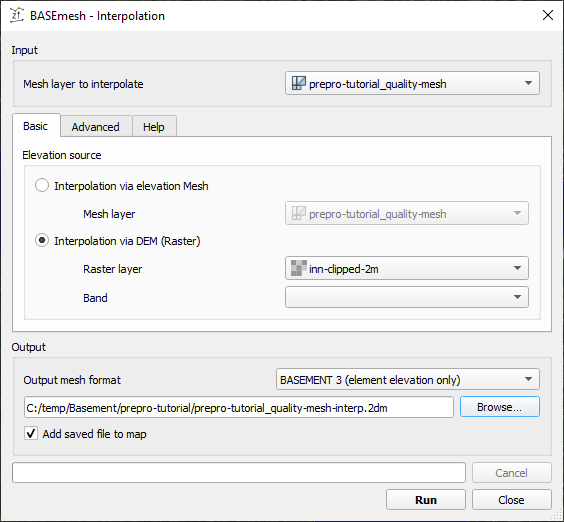
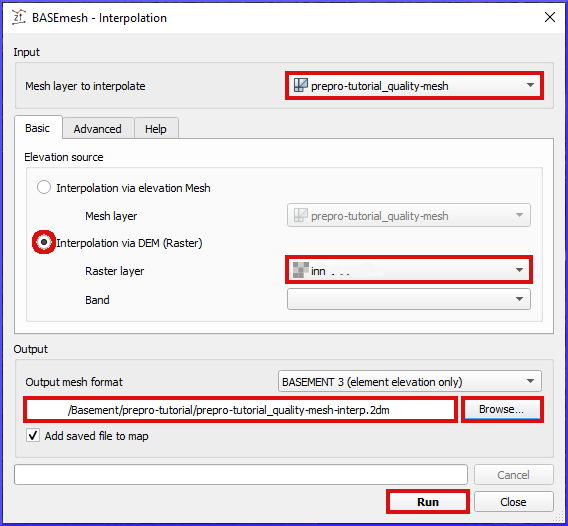
started restructuring with bm3

diff --git a/numerics/pre-qgis.md b/numerics/pre-qgis.md
@@ -9,10 +9,20 @@ Before diving into this tutorial make sure to...
 2. Read and understand (or watch) this eBook's {ref}`qgis-tutorial`.
 ```
 
-## Essentials: Digital Elevation Models (DEMs)
+(get-dem)=
+## Digital Elevation Models (DEMs)
 To start any analysis of rivers and fluvial landscapes, a digital elevation model (**DEM**) is required. Nowadays, DEMs often stem from light imaging, detection, and ranging ([LiDAR](https://en.wikipedia.org/wiki/Lidar) combined with bathymetric surveys. Older approaches rely on manual surveying (e.g. with a total station) of cross sections between which the terrain is interpolated. The newer LiDAR employs lights sources and provides terrain assessments up to 2-m deep water. Bathymetric [echo sounding](https://en.wikipedia.org/wiki/Echo_sounding) is necessary to map the ground of deeper waters. Thus, merged LiDAR and echo-sounding datasets produces seamless point clouds of river ecosystems, which may be stored in many different file types.
 
 The first step in modelling a river consist in the conversion of a DEM into a computational mesh. This section guides through the conversion of a DEM into a computational mesh with *QGIS* and the *BASEmesh* plugin. The descriptions refer to the developer's documentation files ([go to the ETH Zurich's *BASEMENT* documentation](https://basement.ethz.ch/download/documentation/docu3.html)). At the end of this tutorial, we will have generated a computational grid in {term}`SMS 2dm` format that is compatible with the {ref}`chpt-basement` and {ref}`chpt-telemac2d` numerical models presented in the next chapters of this eBook.
+
+
+This tutorial uses an application-ready DEM in GeoTIFF {ref}`raster` format. The DEM raster will provide height (Z) information for the computational grids created in the next sections. Therefore, download the example DEM GeoTIFF [here](https://github.com/hydro-informatics/materials-bm/raw/main/rasters/inn-dem.tif) and add it as a new raster layer in *QGIS* (similar to adding {ref}`basemap`).
+
+```{admonition} From LiDAR point clouds to a Raster DEM
+:class: tip
+Terrain survey data are mostly delivered in the shape of an x-y-z point dataset. LiDAR produces massive point clouds, which quickly overcharge even powerful computers. Therefore, LiDAR data may need to be break down to smaller zones of less than approximately 106 points and special LiDAR point processing software (e.g., http://lastools.org/) may be helpful in this task. The range of possible data products and shape from terrain survey is board and this tutorial exemplary uses a set of x-y-z points stored within a text file.
+```
+
 
 ```{admonition} OpenFOAM modelers...
 For three-dimensional (3d) modeling with OpenFOAM, the creation of a 2dm file is not necessary. OpenFOAM users can export the terrain in QGIS directly as an `stl` file, as described at the bottom of this section (jump to the {ref}`dem2stl` paragraph).
@@ -69,60 +79,19 @@ Save the QGIS project (**Project** > **Save As...**), for example, under the nam
 ```
 
 (epd)=
-## Elevation Point Data
-Terrain survey data are mostly delivered in the shape of an x-y-z point dataset. LiDAR produces massive point clouds, which quickly overcharge even powerful computers. Therefore, LiDAR data may need to be break down to smaller zones of less than approximately 106 points and special LiDAR point processing software (e.g., http://lastools.org/) may be helpful in this task. The range of possible data products and shape from terrain survey is board and this tutorial exemplary uses a set of x-y-z points stored within a text file. Load the points from the provided xyz-points.txt file as follows:
+## Data
+
 
 1. [Download](https://github.com/hydro-informatics/materials-bm/blob/main/points_raw/points.txt) the point file for this tutorial (if necessary, copy the file contents locally into a text editor and save the file as **points.txt** in a local project directory)
 1. [Download](https://github.com/hydro-informatics/materials-bm/raw/main/breaklines.zip) the zipped breaklines shapefile into the project folder and unpack **breaklines.shp**.
-1. In *QGIS*, click on the **Layer** menu > **Add Layer** > **Add Delimited Text Layer...** (see {numref}`Fig. %s <qgis-add-lyr>`)
-1. In the **Add Delimited Text Layer** (**Data Source Manager | Delimited Text**) wizard (see details in {numref}`Fig. %s <qgis-import-pts>`):
-    * Choose [points.txt](https://github.com/hydro-informatics/materials-bm/blob/main/points_raw/points.txt) in the **File name** field (alternatively use [points.csv](https://github.com/hydro-informatics/materials-bm/blob/main/points_raw/points.csv)
-    * Name the new layer (e.g., points)
-    * In the **File Format** canvas, select **Custom Delimiters** and activate the **Space** checkbox
-    * In the **Record and Field Options** canvas, activate the **First record has field names** checkbox
-    * In the **Geometry Definition** canvas, define the **Point Coordinates** as **X Field** = **X**, **Y Field** = **Y** and **Z Field** = **Z**; set the **Geometry CRS** to the **Project CRS**.
-    * Click the **Add** button on the bottom of the wizard window. The points should now be plotted in the main *QGIS* window.
 
 
-```{figure} ../img/qgis-add-lyr.png
-:alt: basement qhis add layer
-:name: qgis-add-lyr
-
-Open the **Add Delimited Text Layer** import wizard.
-```
-
-```{figure} ../img/qgis-import-pts.png
-:alt: basement qgis import points
-:name: qgis-import-pts
-
-Load the xyz-points.txt file with QGIS' Add Delimited Text Layer (Data Source Manager | Delimited Text) wizard.
-```
-
-Next, export the new point layer as shapefile: In *QGIS*' **Layer**s window, right-click on XYZ-POINTS, then **Export** > **Save Features As...** . In the Format field, select **ESRI Shapefile**. Define a FILE NAME (by clicking on the … button and defining for example *C:\QGIS-projects\xyz-points.shp*), ensure that the ADD SAVED FILE TO MAP checkbox is activated (on the bottom of the **Save Vector Layer As...** window) and click **OK**. Remove the **points** text layer from the **Layers** window (only the shape file should be visible here now).
-Finally, rename the three fields (**FIELD_1**, **FIELD_2**, **FIELD_3**) to **X**, **Y**, and **Z**, respectively. The fields can be renamed with a double-click on the **xyz-points** layer (opens **Layer Properties**), then left-click on the **Fields** ribbon, activate the editing mode (click on the pen symbol) and edit the **Name** fields.
 
 (boundary)=
 ## Model Boundary
 
 The model boundary defines the calculation extent and needs to be define within a polygon shapefile that encloses all points in the above produced point shapefile. *QGIS* provides a Convex Hull tool that enables the automated creation of the outer boundary. This tool is used as follows:
 
-- In *QGIS*' **Processing** menu, select **Toolbox** (see {numref}`Fig. %s <qgis-tbx-fig>`) The **Toolbox** sub-window opens now.
-- In the toolbox, click on **Vector Geometry** > **Concave Hull (Alpha Shapes)**, which opens the **Concave Hull (Alpha Shapes)** wizard (see {numref}`Fig. %s <qgis-chull>`).
-- In the **Concave Hull (Alpha Shapes)** wizard, select the **xyz-points** layer as **Input Layer**, set the **Threshold** to 0.300 (keep default), define an output **Concave Hull** shapefile (e.g., **boundary.shp**) by clicking on the **...** button, and click on **Run**.
-
-```{figure} ../img/qgis-tbx.png
-:alt: qgis basement toolbox
-:name: qgis-tbx-fig
-
-Open QGIS' Toolbox from the main menu.
-```
-
-```{figure} ../img/qgis-chull.png
-:alt: basement qgis convex hull boundary polygon
-:name: qgis-chull
-
-The Concave Hull (Alpha Shapes) wizard.
-```
 
 
 - Right-click on *QGIS*' **Settings** menu, and activate the **Snapping** toolbar checkbox. In the now shown snapping toolbar, activate snapping with a click on the horseshoe icon.
@@ -145,7 +114,7 @@ Toggle editing and enable the Vertex Tool.
 :alt: basement qgis modify boundary polygon
 :name: qgis-mod-boundary
 
-Modify the boundary polygon with a click on the centre cross (creates a new point) and dragging it to the next outest boundary point of the DEM points.
+Modify the boundary polygon with a click on the center cross (creates a new point) and dragging it to the next outest boundary point of the DEM points.
 ```
 
 
@@ -161,28 +130,7 @@ The final boundary (hull of the point cloud).
 Breaklines indicate, for instance, channel banks and the riverbed, and need to coincide with DEM points (shapefile from [above section](#epd)). Breaklines a stored in a line (vector) shapefile, which is here already provided (**breaklines.shp**). Integrate the breaklines file into the *QGIS* project as follows with a click on *QGIS*' **Layer** menu > **Add Vector Layer...** and select the provided **breaklines.shp** file (if not yet done, [download](https://github.com/hydro-informatics/materials-bm/raw/main/breaklines.zip) and unpack the shapefile).
 Note: The default layer style **Single Symbol**. For better representation, double-click on the breaklines layer, got to the **Symbology** ribbon and select **Categorized** (or **Graduated**) instead of **Single Symbol** (at the very top of the **Layer Properties** window). In the **Value** field, select **type**, then click the **classify** button on the bottom of the **Layer Properties** window. The listbox will now show the values bank, bed, hole, and all other values. Change color pattern and/or click **OK** on the bottom-right of the **Layer Properties** window.
 
-(tin-dem)=
-## TIN Elevation Model
 
-This section explains the creation of a triangulated irregular network (TIN) with the *QGIS* plugin *BASEmesh* (make sure that all steps in the [above section](#start-qgis) were successful).
-
-1. To start, click on *QGIS*' **Plugins** menu > *BASEmesh* > **Elevation Meshing** to open the mesh wizard. Use the following settings (see also {numref}`Fig. %s <qgis-exp-tin>`:
-1. **Model boundary** = **boundary** layer ([see above section](#boundary)
-1. **elevation points** = **xyz-points** ([see above section](#epd)
-1. Enable the **breaklines** checkbox and select the **breaklines** layer ([see above section](#breaklines)
-1. In the **Shapefile output** canvas, click on the **BROWSE** button and save the new file as, for example, base_tin.shp.
-1. Click on **Generate Elevation Mesh** and **Close** the wizard after successful execution.
-
-As a result, two new layers will now show up in the Layers window:
-1.	**base_tin_elevation_nodes.shp**, and
-1.	**base_tin_elevation_elements.shp**.
-
-```{figure} ../img/qgis-exp-tin.png
-:alt: basemesh qgis elevation mesh tin
-:name: qgis-exp-tin
-
-Setup BASEmesh's Elevation Meshing wizard.
-```
 
 (regions)=
 ## Region Markers for Quality Meshing
@@ -235,126 +183,62 @@ Example for distributing region points in the project boundaries (remark: the ma
 (qualm)=
 ## Quality meshing
 
-A quality mesh accounts for the definitions made within the regions shapefile ([see above section](#regions), but it does not include elevation data. Thus, after generating a quality mesh, elevation information needs to be added from the TIN ([see above section](#tin-dem)). This section first explains the [generation of a quality mesh](qualm-gen) and then the [insertion of elevation data](#qualm-interp)).
+A quality mesh accounts for the definitions made within the regions shapefile ([see above section on {ref}`regions`), but it does not include elevation data. Thus, after generating a quality mesh, elevation information needs to be added. This section first explains the {ref}`qualm-gen` and then the {ref}`qualm-interp`.
 
 (qualm-gen)=
 ### Quality mesh generation
-In *QGIS*' **Plugins** menu, click on **BASEmesh** > **QUALITY MESHING** to open the Quality meshing wizard. Make the following settings in the window (see also {numref}`Fig. %s <qgis-qualm>`):
+In *QGIS*' **Plugins** menu, click on **BASEmesh 2** > **QUALITY MESHING** to open the Quality meshing wizard. Make the following settings in the window (see also {numref}`Fig. %s <qgis-qualm>`):
 
 1. **Model boundary** = **boundary** ([see above section](#boundary)
 1. **breaklines** = **breaklines** ([see above section](#breaklines)
 1. **Regions** = **regions-points** ([see above section](#regions) and activate all checkboxes
 1. In the **Shapefile output** canvas, click on the **browse** button to define the output mesh as (for example) **base_qualitymesh.shp**
 
-```{figure} ../img/qgis-qualm.png
+```{figure} ../img/qgis/bm-quality-meshing-success.png
 :alt: basement qgis quality mesh tin
 :name: qgis-qualm
 
 BASEmesh's Quality Meshing wizard.
 ```
 
-Quality meshing may take time. After successful mesh generation the files **base_qualitymesh_qualityNodes.shp** and **base_qualitymesh_qualityElements.shp** are generated. Finally, click **Close**.
+Quality meshing may take time. After successful mesh generation the file **prepro-tutorial_quality-mesh.2dm** will have been generated.
 
 (qualm-interp)=
-### Elevation data interpolation on a quality mesh
+### Bottom Elevation Interpolation on a Quality Mesh
 
-*BASEmesh*’s **Interpolation** wizard projects elevation data onto the quality mesh by interpolation from a TIN. Make sure to check (show) the **base_qualitymesh_qualityNodes** and **base_qualitymesh_qualityElements** from the last step, and **base_tin_elevation_nodes.shp** and [**base_tin_elevation_elements.shp**](#tin-dem). Then, open *BASEmesh*’s **Interpolation** wizard (*QGIS* **Plugins** menu > **BASEmesh** > **Interpolation**) and (see also {numref}`Fig. %s <qgis-qualm-interp>`):
+*BASEmesh*’s **Interpolation** wizard projects elevation data onto the quality mesh by interpolation from another mesh or a DEM raster. Here, we use the provided [DEM GeoTIFF](https://github.com/hydro-informatics/materials-bm/raw/main/rasters/inn-dem.tif). To run the interpolation, open *BASEmesh*’s **Interpolation** wizard (*QGIS* **Plugins** menu > **BASEmesh 2** > **Interpolation**) and (see also {numref}`Fig. %s <qgis-qualm-interp>`):
 
-1. In the **Quality Mesh** canvas, select **base_qualitymesh_qualityNodes**
-1. In the **Elevation Data** canvas, activate the **Elevation Mesh** checkbox and select **base_tin_elevation_nodes.shp** and [**base_tin_elevation_elements.shp**](#tin-dem)
-1. In the **Shapefile output** canvas, define the output file as finalmesh.shp.
-1. Click **Interpolate elevations** (may take a while)
-After successful execution, the new layer finalmesh_Interpolated_nodes_elevMesh.shp will be created. Click Close to close the Interpolation wizard.
+1. In the **Mesh layer to interpolate** canvas, select **prepro-tutorial_quality-mesh**.
+1. In the **Basic** tab find the **Elevation source** canvas and activate the **Activation via DEM (Raster)** radio button.
+1. Select the above imported **inn...** GeoTIFF as **Raster layer**.
+1. In the **Output** canvas click on the **Browse** button to define an output mesh name an directory (for example, `/Basement/prepro-tutorial/prepro-tutorial_quality-mesh-interp.2dm`)
+1. Click **Run** to create the height-interpolated mesh.
 
-```{figure} ../img/qgis-qualm-interp.png
+```{figure} ../img/qgis/bm-mesh-interpolation.png
 :alt: qgis quality mesh interpolation basement
 :name: qgis-qualm-interp
 
-BASEmesh's Interpolation wizard and setup.
+BASEmesh's Z-value (height) interpolation wizard and setup to assign a bottom elevation to the quality mesh.
 ```
 
-(qualm-verify)=
-### Verify quality mesh elevation
+After the elevation interpolation, verify that elevations were correctly assigned. To modify the layer visualization (symbology) double-click on the new **prepro-tutorial_quality-mesh-interp** and go to the **Symbology** ribbon. Select **Graduated** at the very top of the window, set the **Value** to Z, METHOD to COLOR, choose a color ramp, and click on the **classify** bottom (lower part of the window). Click on **Apply** and **OK** to close the **Symbology** window. {numref}`Fig. %s <qgis-verify-qualm>` shows an example visualization of the height-interpolated mesh.
 
-After the elevation interpolation, verify that elevations were correctly assigned. To identify potential outliers double-click on the new **finalmesh_interpolated_Nodes_elevMesh** and go to the **Symbology** ribbon. Select **Graduated** at the very top of the window (instead of **Single Symbol**), set the **Value** to Z, METHOD to COLOR, choose a color ramp, and click on the **classify** bottom (lower part of the window). Click on **Apply** and **OK** to close the **Symbology** window.
-{numref}`Fig. %s <qgis-verify-qualm>` shows an example of interpolated mesh, with some irregularities (red points). The irregularities are caused by local imprecision of breaklines (line end points do not coincide with the [**xyz-points.shp**](#epd)). Also some points of the [boundary](#boundary) do not correspond the **xyz-points.shp**. If such irregularities occur, zoom at the red points (irregularities) and ensure that the breakline and boundary nodes all exactly coincide with those stored in **xyz-points.shp**. When all nodes are corrected, repeat all steps from the [TIN generation](#tin-dem) onward.
-
-```{figure} ../img/qgis-verify-qualm.png
-:alt: basemesh verify quality mesh
+```{figure} ../img/qgis/bm-mesh-interp-success.png
+:alt: basemesh verify interpolated quality mesh
 :name: qgis-verify-qualm
 
-Verify elevation interpolation using graduated color ramps. In this example, the red colored points indicated irregularities in the mesh.
+Verify elevation interpolation using graduated color ramps.
 ```
 
-(2dm)=
-##	Export to 2dm
-
-To run *BASEMENT*, the mesh needs to be exported in 2dm format. **BASEmesh**'s **Export Mesh** wizard (*QGIS* **Plugins** menu > **BASEmesh** > **Export Mesh**) does the job with the following settings (see also {numref}`Fig. %s <qgis-exp-mesh>`): Export of the mesh to 2dm format with *BASEmesh*'s **Export Mesh** wizard.):
-
-1. Select the checkbox 2D MESH **Export**
-1. Mesh elements = **base_qualitymesh_quality_elementy.shp** ([see above](#qualm-interp) with **Material ID field** = **MATID**
-1. Mesh nodes = **finalmesh_interpolated_nodes_elevmesh.shp** ([see above](#qualm) with **Elevation field** =**Z**
-1. In the **Mesh output** canvas, click on the **Browse** button and select an export mesh directory and name (e.g., **finalmesh.2dm**).
-1. Click on **Export Mesh** (may take a while) and **Close** the wizard afterwards.
-
-```{figure} ../img/qgis-exp-mesh.png
-:alt: basement qgis export mesh 2dm
-:name: qgis-exp-mesh
-
-Export of the mesh to 2dm format with BASEmesh's Export Mesh wizard.
-```
-
-In order to work with *BASEMENT* v3.x, the .2dm file requires a couple of adaptations. Open the produced finalmesh.2dm in a text editor software (right-click and, for example, edit with {ref}`npp`) and:
-
-- At the top, insert the following line at line N°2: **NUM_MATERIALS_PER_ELEM 1**
-
-```{figure} ../img/mod-2dm.png
-:alt: modify materials basemesh basement 2dm error fix
-:name: mod-2dm
-
-Modification of the upper part of the .2dm file.
-```
 
 
 (stringdef)=
 ## String Definitions
-At the bottom of the file, add the node string definitions for the inflow and outflow boundary. Enter the following 2 new lines (where *nd<sub>i</sub>* and *nd<sub>j</sub>* represent the *Inflow* and *Outflow* nodes, respectively, of [finalmesh_interpolatedNodes_elevMesh.shp](#qualm-interp):
-  * *NS[SPACE][SPACE]nd<sub>1</sub>[SPACE]nd<sub>2</sub>[SPACE]nd<sub>i</sub>[SPACE]nd<sub>n</sub>[SPACE]Inflow*
-  * *NS[SPACE][SPACE]nd<sub>1</sub>[SPACE]nd<sub>2</sub>[SPACE]nd<sub>j</sub>[SPACE]nd<sub>m</sub>[SPACE]Outflow*
 
-```{tip}
-To **identify** the **node IDs** open *QGIS* use ***BASEmesh*'s Stringdef** wizard (from *BASEMENT* v2.8 user manual - read more below).
-```
+In order to identify the node ids on the inflow and outflow boundary lines, select the final mesh nodes in the *Mesh Nodes* dialogue, select the provided [breaklines shapefile](https://github.com/hydro-informatics/materials-bm/raw/main/breaklines.zip) in the *Breaklines* dialogue and select *stringdef* from the dropdown menu.
 
-* *Stringdef* identifies points that have a non-empty **stringdef**-field (i.e., all nodes that are located exactly on that line) and writes them into a text file (*BASEMENT*-like **stringdef** block). The content of the **stringdef**-field represents the **stringdef** name.
-* In order to identify the node ids on the inflow and outflow boundary lines, select the final mesh nodes in the *Mesh Nodes* dialogue, select the provided [breaklines shapefile](https://github.com/hydro-informatics/materials-bm/raw/main/breaklines.zip) in the *Breaklines* dialogue and select *stringdef* from the dropdown menu.
-* In the *Textfile OUTPUT* dialogue, select an output text file (e.g., **C:/temp/stringdef-breaklines.txt**) and click on ***Find node IDs***
 
-```{figure} ../img/qgis-stringdef.png
-:alt: basement stringdef tool
-:name: bm-str-def-tool
 
-BASEmesh's Stringdef tool.
-```
-
-* The *Stringdef* tool now has generated  **stringdef**s in upstream-looking right direction (note: to create new boundaries, the lines need to be drawn from the left riverbank to the right riverbank).
-* Open the resulting text file (**C:/temp/stringdef-breaklines.txt** in the above example) and copy the node list to the bottom of *finalmesh.2dm* with the above-shown format (i.e., start with *NS*, followed by two SPACEs, then the node IDs *nd<sub>i/j </sub>* separated by on SPACE, then *Inflow* and *Outflow*, respectively). *Note: The node IDs my vary from those shown in the figure(s).*
-
-```{figure} ../img/qgis-stringdef-out.png
-:alt: basement stringdef
-:name: bm-str-def
-
-The output of BASEmesh's Stringdef tool: Node IDs of the Inflow and Outflow boundaries.
-```
-
-- Finally, the bottom of the finalmesh.2dm (text editor) should look like this in the text editor (node **ID**s may vary from those in the screenshot):
-
-```{figure} ../img/mod-2dm-bottom.png
-:alt: basement 2dm modify bottom nodes error fix
-:name: mod-2dm-bottom
-
-Modification of the bottom part of the .2dm file.
-```
 
 ## Usage with Numerical Models
 
@@ -374,7 +258,7 @@ The export requires the **DEMto3D** plugin, which can be installed in *QGIS* as 
 * Click on **Install Plugin**.
 * Close the Plugin Manager after the successful installation.
 
-Download the example DEM GeoTIFF [here](https://github.com/hydro-informatics/materials-bm/raw/main/rasters/inn-dem.tif) and add it as a new raster layer in *QGIS* (similar to adding {ref}`basemap`). Then export the DEM to `stl` by opening the DEM 3D printing window from **Rasters** > **DEMto3D** > **DEM 3D printing**. In the popup window (see also {numref}`Fig. %s <qgis-dem3d>`):
+Following the instructions in the above section on {ref}`get-dem`, download the example DEM GeoTIFF [here](https://github.com/hydro-informatics/materials-bm/raw/main/rasters/inn-dem.tif) and add it as a new raster layer in *QGIS* (similar to adding {ref}`basemap`). Then export the DEM to `stl` by opening the DEM 3D printing window from **Rasters** > **DEMto3D** > **DEM 3D printing**. In the popup window (see also {numref}`Fig. %s <qgis-dem3d>`):
 
 * Select the `inn...` DEM as **Layer to print**
 * For **Print extent** find the **Select layer extent** symbol and select the `inn...` DEM layer.
